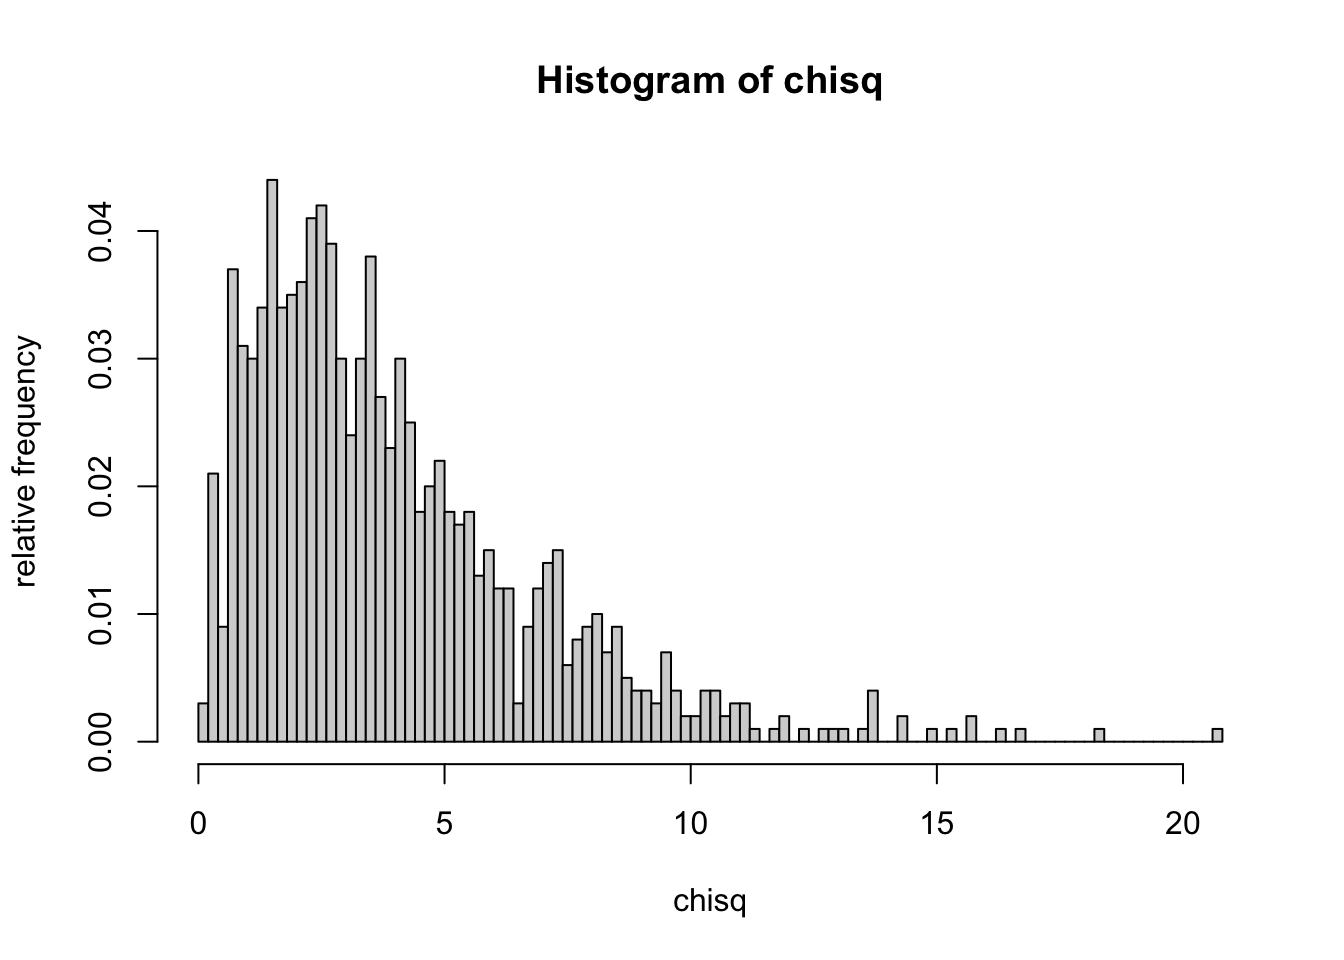
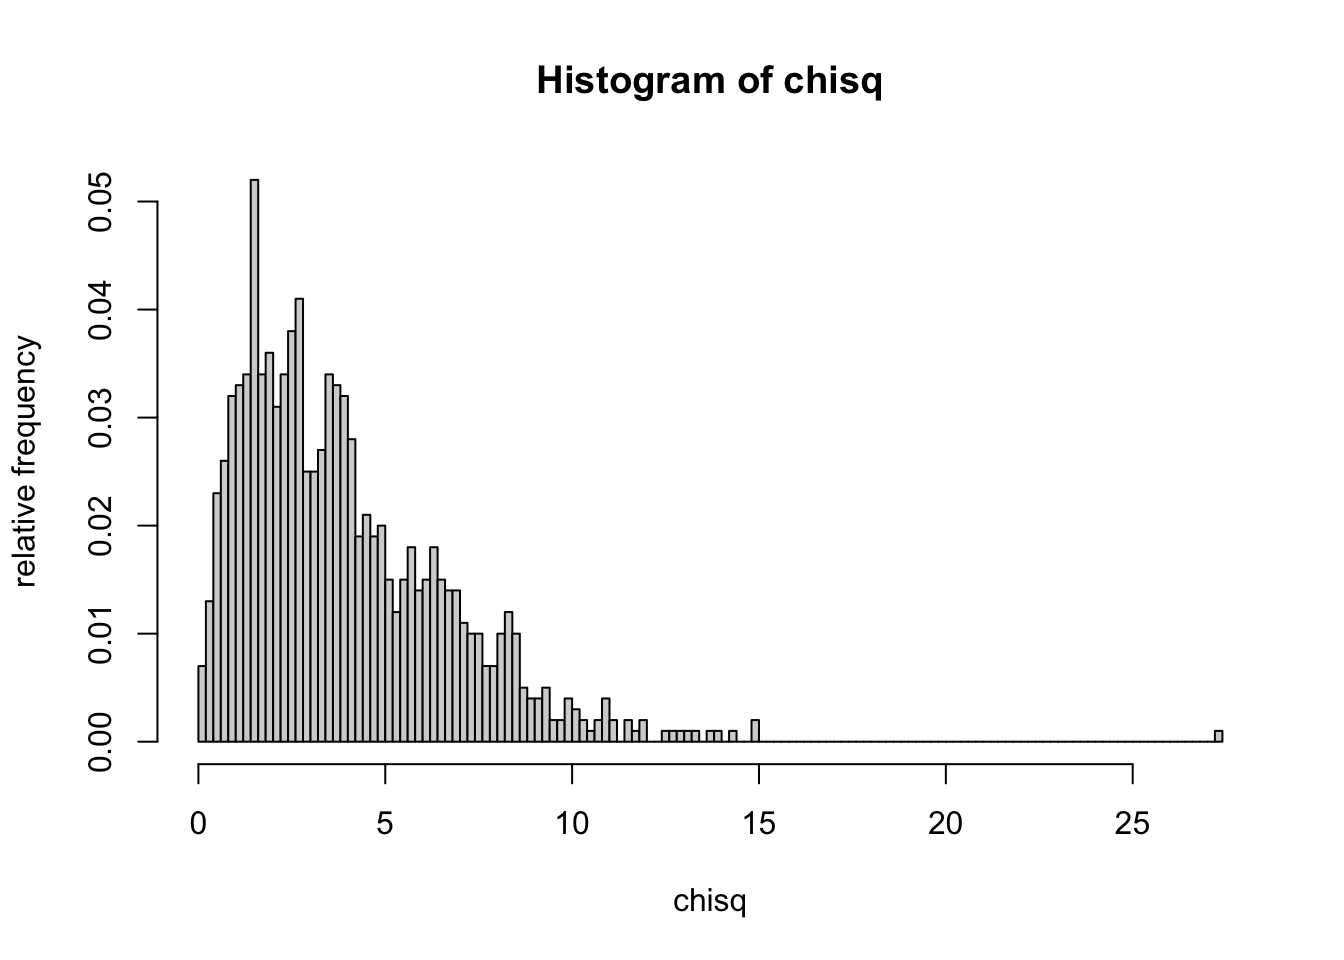
add stepfun() to step
FossilOrigin-Name: 89fb0199b74cba9314e32a900cf349d56fc2ad4b9ca702537721a29fdecb93e2

diff --git a/docs/posts/step.html b/docs/posts/step.html
@@ -96,6 +96,8 @@ pre > code.sourceCode > span > a:first-child::before { text-decoration: underlin
   }
 }</script>
 
+  <script src="https://polyfill.io/v3/polyfill.min.js?features=es6"></script>
+  <script src="https://cdn.jsdelivr.net/npm/mathjax@3/es5/tex-chtml-full.js" type="text/javascript"></script>
 
 <link rel="stylesheet" href="styles.css">
 </head>
@@ -185,19 +187,32 @@ pre > code.sourceCode > span > a:first-child::before { text-decoration: underlin
 </header>
 
 <p>ヒストグラムの統計結果<code>h</code>の分割点は<code>h$breaks</code>、密度は<code>h$density</code>に入っている。 分割点の数は密度よりも一つ多い。</p>
-<p>折れ線を描くために、分割点は最初の点と最後の点の間の要素を値を、密度は全体を複製する。</p>
+<p><code>stepfun()</code>を用いると簡単。<span class="math inline">\((x_1, x_2, \dots, x_n)\)</span>よりも<span class="math inline">\((y_0, y_1, \dots, y_n)\)</span>が一つ多いことに注意。既定では区間<span class="math inline">\([x_{i}, x_{i+1}]\)</span>の一定値<span class="math inline">\(c_i = (1 - f)y_i + fy_{i+1}\)</span>なので、区間の右の重み<span class="math inline">\(f\)</span>を0にすると<span class="math inline">\(x_i\)</span>に<span class="math inline">\(y_i\)</span>が使われる。</p>
 <div class="cell">
 <div class="sourceCode cell-code" id="cb1"><pre class="sourceCode r code-with-copy"><code class="sourceCode r"><span id="cb1-1"><a href="#cb1-1" aria-hidden="true" tabindex="-1"></a>n <span class="ot">&lt;-</span> <span class="dv">1000</span></span>
 <span id="cb1-2"><a href="#cb1-2" aria-hidden="true" tabindex="-1"></a>m <span class="ot">&lt;-</span> <span class="dv">5</span></span>
 <span id="cb1-3"><a href="#cb1-3" aria-hidden="true" tabindex="-1"></a>dof <span class="ot">&lt;-</span> m <span class="sc">-</span> <span class="dv">1</span></span>
 <span id="cb1-4"><a href="#cb1-4" aria-hidden="true" tabindex="-1"></a>chisq <span class="ot">&lt;-</span> <span class="fu">rchisq</span>(n, dof)</span>
 <span id="cb1-5"><a href="#cb1-5" aria-hidden="true" tabindex="-1"></a>h <span class="ot">&lt;-</span> <span class="fu">hist</span>(chisq, <span class="at">breaks =</span> <span class="dv">100</span>, <span class="at">plot =</span> <span class="cn">FALSE</span>)</span>
-<span id="cb1-6"><a href="#cb1-6" aria-hidden="true" tabindex="-1"></a><span class="fu">plot</span>(<span class="fu">c</span>(h<span class="sc">$</span>breaks[<span class="dv">1</span>], <span class="fu">rep</span>(h<span class="sc">$</span>breaks[<span class="dv">2</span><span class="sc">:</span>(<span class="fu">length</span>(h<span class="sc">$</span>breaks)<span class="sc">-</span><span class="dv">1</span>)], <span class="at">each =</span> <span class="dv">2</span>),</span>
-<span id="cb1-7"><a href="#cb1-7" aria-hidden="true" tabindex="-1"></a>       h<span class="sc">$</span>breaks[<span class="fu">length</span>(h<span class="sc">$</span>breaks)]), <span class="fu">rep</span>(h<span class="sc">$</span>density, <span class="at">each =</span> <span class="dv">2</span>),</span>
-<span id="cb1-8"><a href="#cb1-8" aria-hidden="true" tabindex="-1"></a>  <span class="at">xlab =</span> <span class="st">"chisq"</span>, <span class="at">ylab =</span> <span class="st">"density"</span>, <span class="at">type=</span><span class="st">"l"</span>)</span>
-<span id="cb1-9"><a href="#cb1-9" aria-hidden="true" tabindex="-1"></a><span class="fu">lines</span>(h<span class="sc">$</span>breaks, <span class="fu">dchisq</span>(h<span class="sc">$</span>breaks, dof), <span class="at">lw =</span> <span class="dv">2</span>)</span></code><button title="Copy to Clipboard" class="code-copy-button"><i class="bi"></i></button></pre></div>
+<span id="cb1-6"><a href="#cb1-6" aria-hidden="true" tabindex="-1"></a><span class="fu">plot</span>(h<span class="sc">$</span>breaks, <span class="fu">dchisq</span>(h<span class="sc">$</span>breaks, dof), <span class="at">type =</span> <span class="st">"l"</span>, <span class="at">lwd =</span> <span class="dv">2</span>, <span class="at">xlab =</span> <span class="st">"chisq"</span>, <span class="at">ylab =</span> <span class="st">"density"</span>, <span class="at">ylim =</span> <span class="fu">c</span>(<span class="dv">0</span>, <span class="fu">max</span>(h<span class="sc">$</span>density)))</span>
+<span id="cb1-7"><a href="#cb1-7" aria-hidden="true" tabindex="-1"></a><span class="fu">lines</span>(<span class="fu">stepfun</span>(h<span class="sc">$</span>breaks, <span class="fu">c</span>(<span class="cn">NA</span>, h<span class="sc">$</span>density, <span class="cn">NA</span>), <span class="at">f =</span> <span class="dv">0</span>), <span class="at">do.points =</span> <span class="cn">FALSE</span>)</span></code><button title="Copy to Clipboard" class="code-copy-button"><i class="bi"></i></button></pre></div>
 <div class="cell-output-display">
 <p><img src="step_files/figure-html/unnamed-chunk-1-1.png" class="img-fluid" width="672"></p>
+</div>
+</div>
+<p><code>stepfun()</code>を使わない方法。折れ線を描くために、分割点は最初の点と最後の点の間の要素を値を、密度は全体を複製する。</p>
+<div class="cell">
+<div class="sourceCode cell-code" id="cb2"><pre class="sourceCode r code-with-copy"><code class="sourceCode r"><span id="cb2-1"><a href="#cb2-1" aria-hidden="true" tabindex="-1"></a>n <span class="ot">&lt;-</span> <span class="dv">1000</span></span>
+<span id="cb2-2"><a href="#cb2-2" aria-hidden="true" tabindex="-1"></a>m <span class="ot">&lt;-</span> <span class="dv">5</span></span>
+<span id="cb2-3"><a href="#cb2-3" aria-hidden="true" tabindex="-1"></a>dof <span class="ot">&lt;-</span> m <span class="sc">-</span> <span class="dv">1</span></span>
+<span id="cb2-4"><a href="#cb2-4" aria-hidden="true" tabindex="-1"></a>chisq <span class="ot">&lt;-</span> <span class="fu">rchisq</span>(n, dof)</span>
+<span id="cb2-5"><a href="#cb2-5" aria-hidden="true" tabindex="-1"></a>h <span class="ot">&lt;-</span> <span class="fu">hist</span>(chisq, <span class="at">breaks =</span> <span class="dv">100</span>, <span class="at">plot =</span> <span class="cn">FALSE</span>)</span>
+<span id="cb2-6"><a href="#cb2-6" aria-hidden="true" tabindex="-1"></a><span class="fu">plot</span>(<span class="fu">c</span>(h<span class="sc">$</span>breaks[<span class="dv">1</span>], <span class="fu">rep</span>(h<span class="sc">$</span>breaks[<span class="dv">2</span><span class="sc">:</span>(<span class="fu">length</span>(h<span class="sc">$</span>breaks)<span class="sc">-</span><span class="dv">1</span>)], <span class="at">each =</span> <span class="dv">2</span>),</span>
+<span id="cb2-7"><a href="#cb2-7" aria-hidden="true" tabindex="-1"></a>       h<span class="sc">$</span>breaks[<span class="fu">length</span>(h<span class="sc">$</span>breaks)]), <span class="fu">rep</span>(h<span class="sc">$</span>density, <span class="at">each =</span> <span class="dv">2</span>),</span>
+<span id="cb2-8"><a href="#cb2-8" aria-hidden="true" tabindex="-1"></a>  <span class="at">xlab =</span> <span class="st">"chisq"</span>, <span class="at">ylab =</span> <span class="st">"density"</span>, <span class="at">type=</span><span class="st">"l"</span>)</span>
+<span id="cb2-9"><a href="#cb2-9" aria-hidden="true" tabindex="-1"></a><span class="fu">lines</span>(h<span class="sc">$</span>breaks, <span class="fu">dchisq</span>(h<span class="sc">$</span>breaks, dof), <span class="at">lw =</span> <span class="dv">2</span>)</span></code><button title="Copy to Clipboard" class="code-copy-button"><i class="bi"></i></button></pre></div>
+<div class="cell-output-display">
+<p><img src="step_files/figure-html/unnamed-chunk-2-1.png" class="img-fluid" width="672"></p>
 </div>
 </div>
 

diff --git a/docs/index.html b/docs/index.html
@@ -303,7 +303,7 @@ Jan 3, 2025
 </div>
 </a>
 </div>
-<div class="g-col-1" data-index="5" data-categories="stat,graphics" data-listing-date-sort="1735830000000" data-listing-file-modified-sort="1735949707159" data-listing-date-modified-sort="NaN" data-listing-reading-time-sort="1">
+<div class="g-col-1" data-index="5" data-categories="stat,graphics" data-listing-date-sort="1735830000000" data-listing-file-modified-sort="1735971621046" data-listing-date-modified-sort="NaN" data-listing-reading-time-sort="1">
 <a href="./posts/step.html" class="quarto-grid-link">
 <div class="quarto-grid-item card h-100 card-left">
 <p class="card-img-top"><img src="posts/step_files/figure-html/unnamed-chunk-1-1.png" style="height: 150px;"  class="thumbnail-image card-img"/></p>
